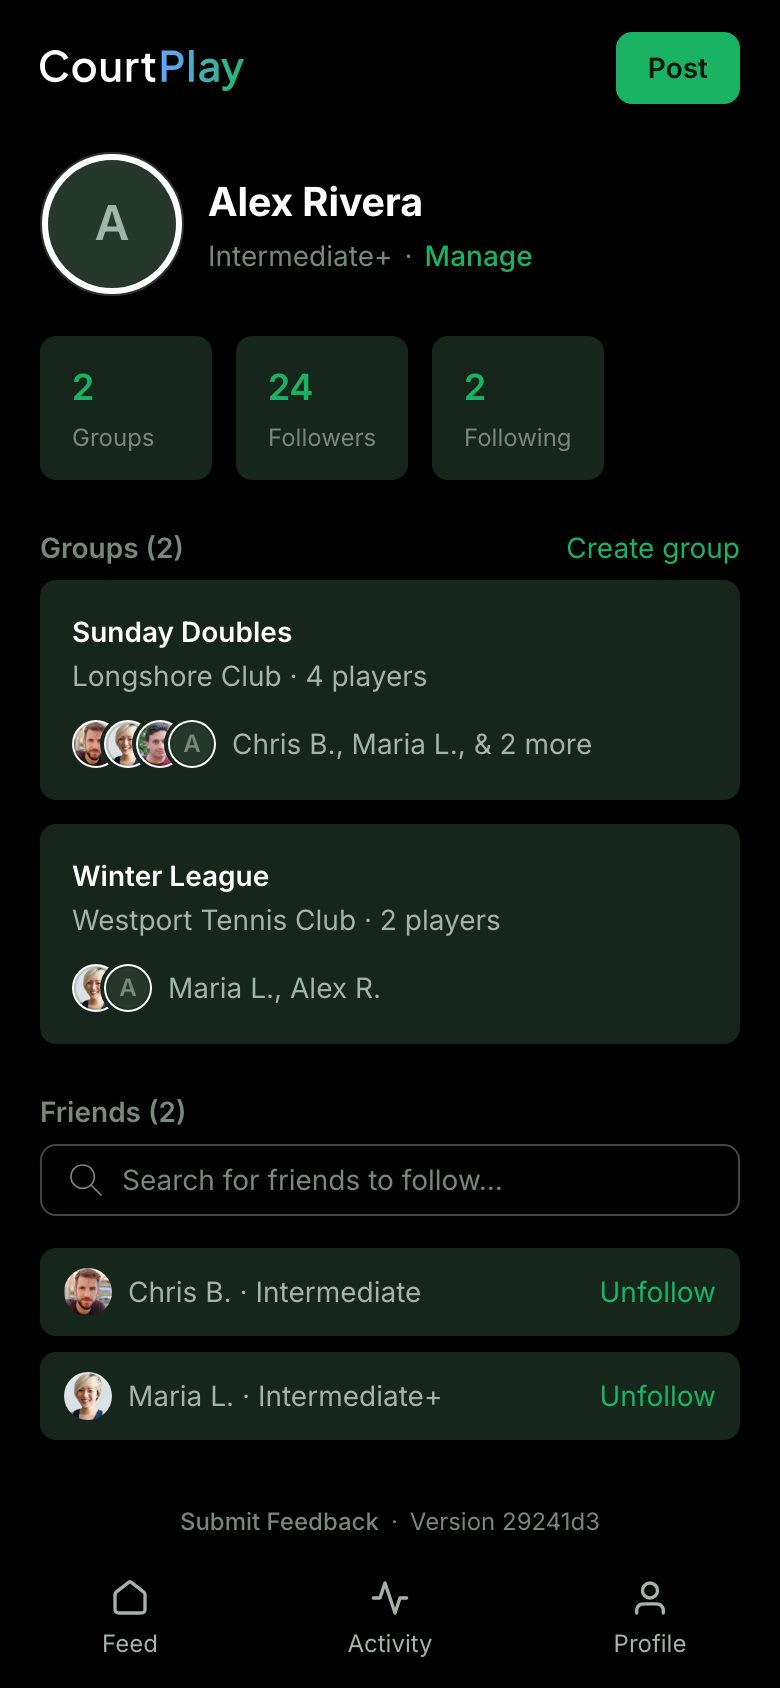
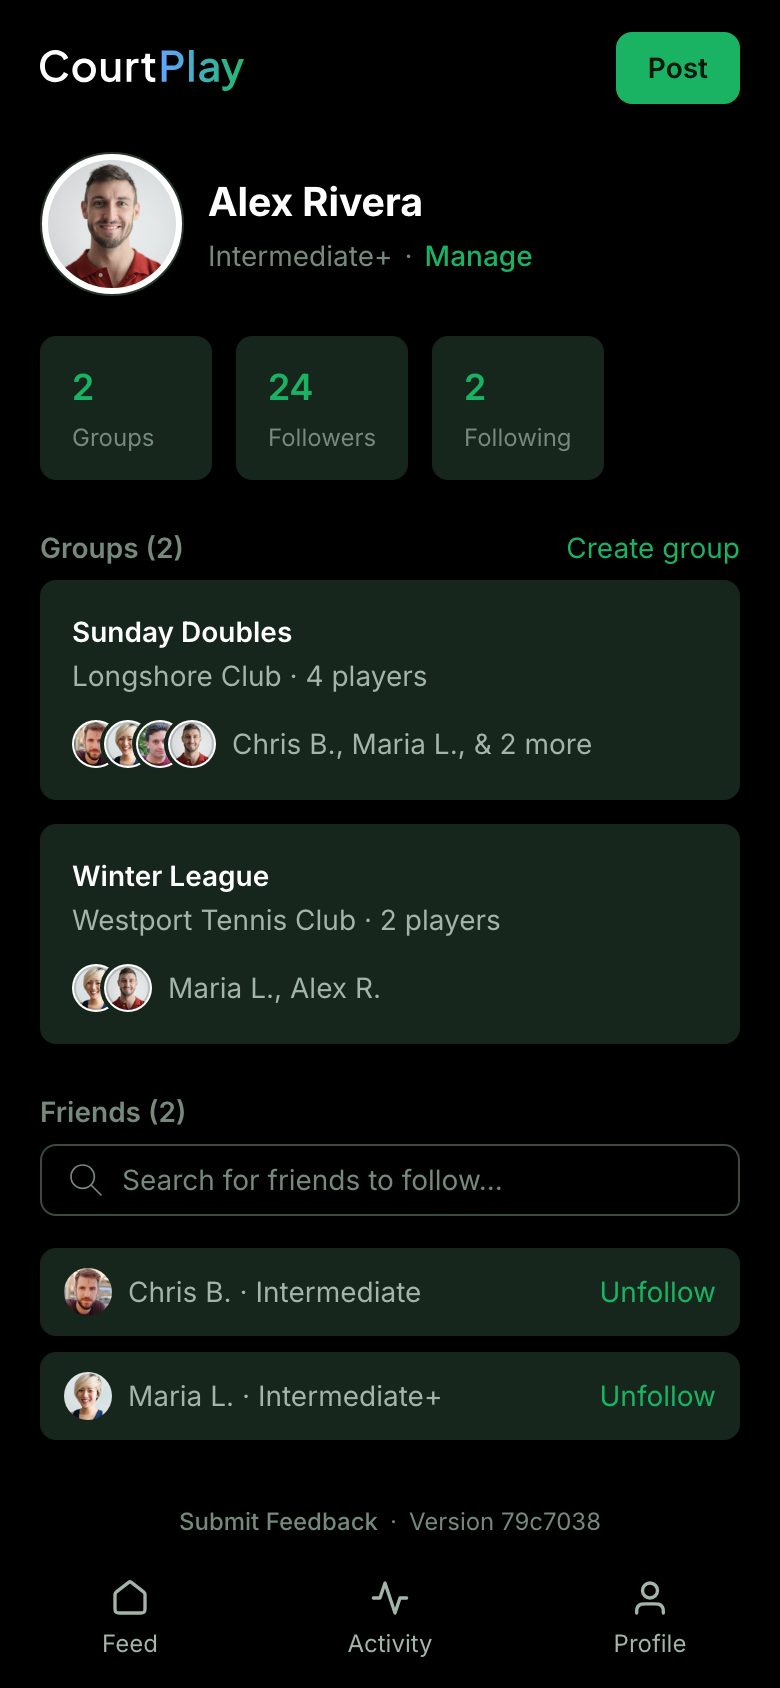
Give the demo player a face (#236)
Fourth avatar, from the design system, for Alex Rivera. The three existing
avatars are all other players in these same screenshots, so reusing one would
have put the same face on two different names across the tutorial.

Converted to jpg at 256px with sips, matching the existing avatars and needing
no dependency. 12 KB, and outside the Workbox precache because globPatterns
lists png and not jpg -- the same reason the other three are.

Wired everywhere the player appears: the profile header, both group face
piles, and their own posts' byline.

Claude-Session: https://claude.ai/code/session_018r2oK9BRqUaW7Q9zLFLBPn

diff --git a/src/demo/fixtures.ts b/src/demo/fixtures.ts
@@ -44,7 +44,7 @@ export const DEMO_PROFILE: UserProfile = {
     first_name: "Alex",
     last_name: "Rivera",
     headline: null,
-    photo_url: null,
+    photo_url: "/avatars/alex.jpg",
     skill_level: "4.0",
     court_preferences: ["Longshore Club"],
     pro_preference: null,
@@ -219,7 +219,7 @@ export const DEMO_GROUPS: GroupSummary[] = [
             { id: "demo-chris", first_name: "Chris", last_name: "B", photo_url: "/avatars/chris.jpg" },
             { id: "demo-maria", first_name: "Maria", last_name: "L", photo_url: "/avatars/maria.jpg" },
             { id: "demo-dan", first_name: "Dan", last_name: "K", photo_url: "/avatars/dan.jpg" },
-            { id: DEMO_VIEWER_ID, first_name: "Alex", last_name: "R", photo_url: null },
+            { id: DEMO_VIEWER_ID, first_name: "Alex", last_name: "R", photo_url: "/avatars/alex.jpg" },
         ],
     },
     {
@@ -235,7 +235,7 @@ export const DEMO_GROUPS: GroupSummary[] = [
         member_count: 2,
         members: [
             { id: "demo-maria", first_name: "Maria", last_name: "L", photo_url: "/avatars/maria.jpg" },
-            { id: DEMO_VIEWER_ID, first_name: "Alex", last_name: "R", photo_url: null },
+            { id: DEMO_VIEWER_ID, first_name: "Alex", last_name: "R", photo_url: "/avatars/alex.jpg" },
         ],
     },
 ];
@@ -273,7 +273,7 @@ export const DEMO_PROFILE_PAGE = {
     first_name: "Alex",
     last_name: "Rivera",
     headline: null,
-    photo_url: null,
+    photo_url: "/avatars/alex.jpg",
     skill_level: "4.0",
     court_preferences: ["Longshore Club"],
     new_to_westport: false,
